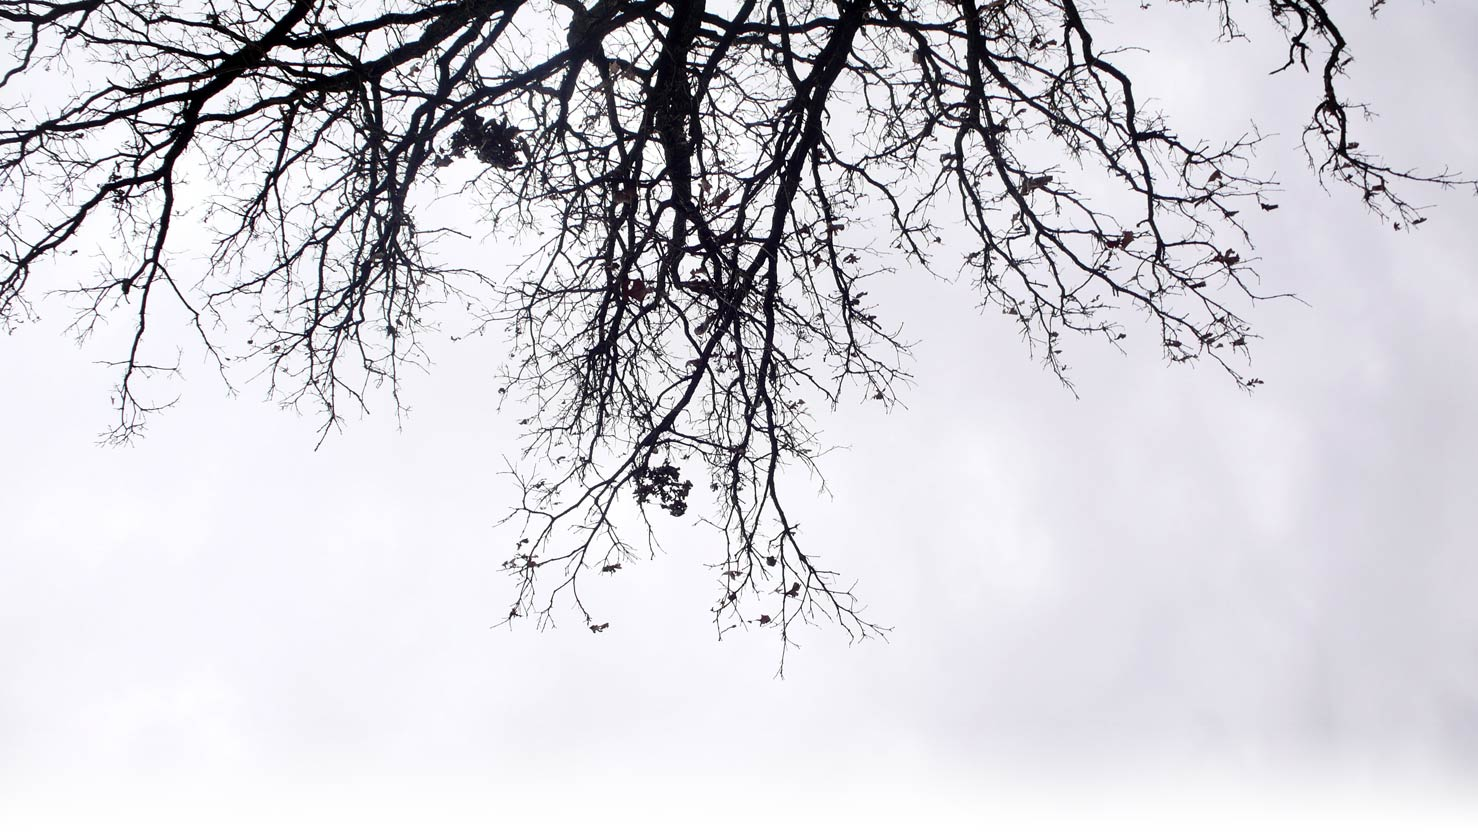
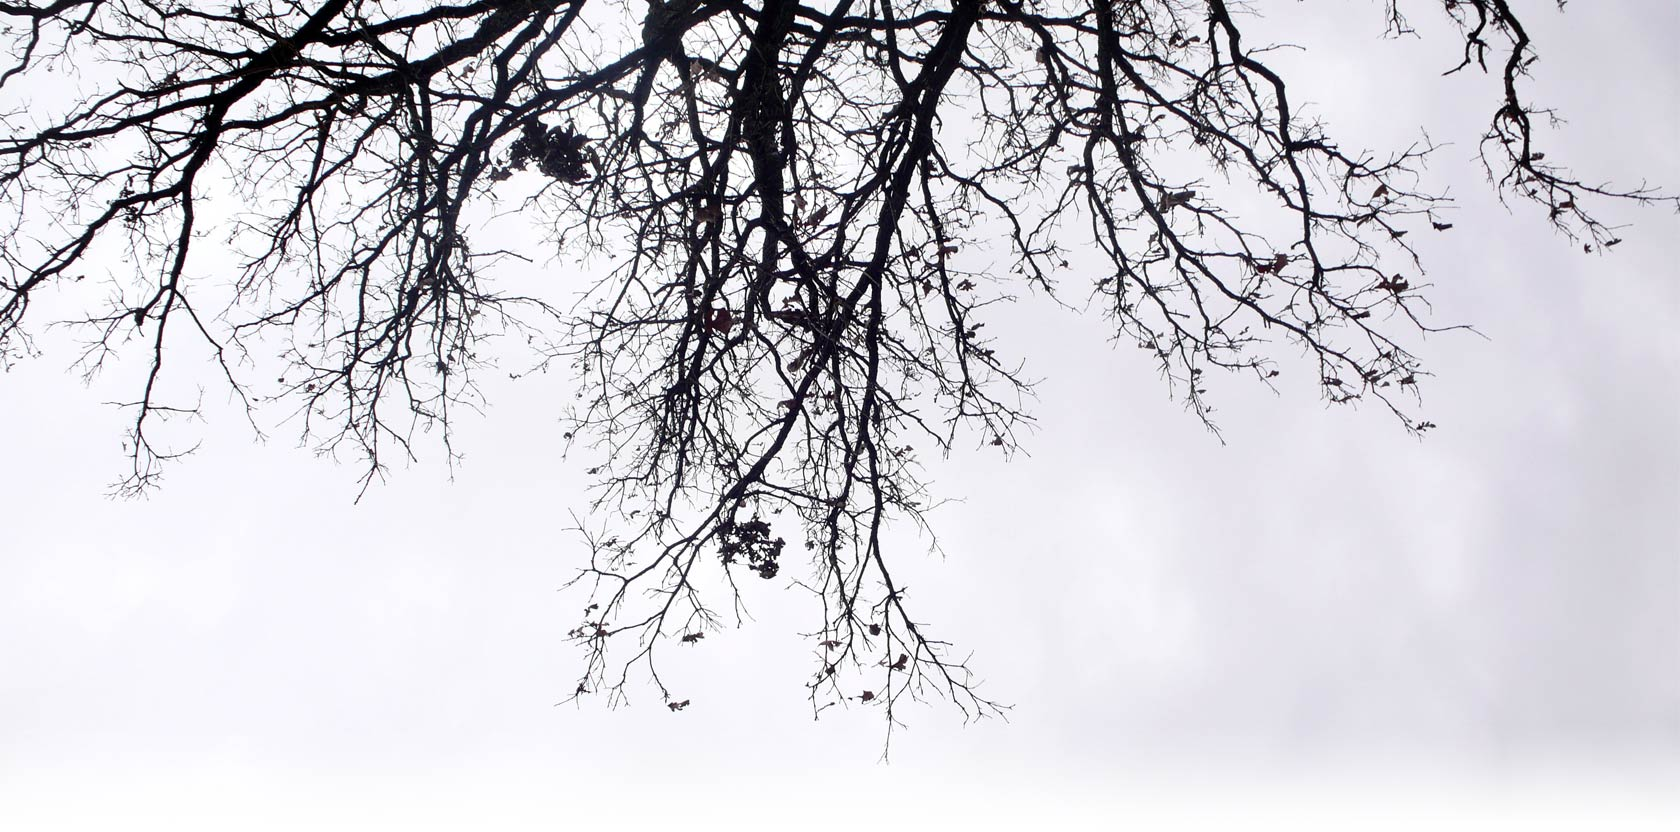
thanksgiving 3 new bg

Changed region(s): [[0.0, 0.0, 1.0, 0.875], [0.8403, 0.5, 0.8714, 0.5312]]

diff --git a/_site/index.html b/_site/index.html
@@ -14,6 +14,7 @@
     
     body {
       background: url(images/thankbg.jpg);;
+      background-repeat: no-repeat;
       
     }
 
@@ -31,7 +32,7 @@
       background: #000;
     }
     #toolbar .hidden_bar {
-      opacity: .6;
+      opacity: .8;
       background: #000;
       height: ;
     }

diff --git a/_layouts/default.html b/_layouts/default.html
@@ -16,6 +16,7 @@
     {% endif %}
     body {
       background: {{ page.background }};
+      background-repeat: no-repeat;
       {% if page.has_iframe %}
         overflow: hidden;
       {% endif %}

diff --git a/_site/style/style.css b/_site/style/style.css
@@ -1,4 +1,7 @@
-body { background: #fff }
+body {  background: #fff;
+        background-repeat: no-repeat;
+  }
+  
 #iphone { display:none; }
 
 #iframe_content { height: 100%; }

diff --git a/style/style.css b/style/style.css
@@ -1,4 +1,7 @@
-body { background: #fff }
+body {  background: #fff;
+        background-repeat: no-repeat;
+  }
+  
 #iphone { display:none; }
 
 #iframe_content { height: 100%; }

diff --git a/_site/where/coop.html b/_site/where/coop.html
@@ -16,6 +16,7 @@
     
     body {
       background: #e06060;
+      background-repeat: no-repeat;
       
         overflow: hidden;
       

diff --git a/_site/where/law.html b/_site/where/law.html
@@ -16,6 +16,7 @@
     
     body {
       background: #00415b;
+      background-repeat: no-repeat;
       
         overflow: hidden;
       

diff --git a/_site/where/onedesign.html b/_site/where/onedesign.html
@@ -16,6 +16,7 @@
     
     body {
       background: #5e8d2a;
+      background-repeat: no-repeat;
       
         overflow: hidden;
       

diff --git a/_site/where.html b/_site/where.html
@@ -16,6 +16,7 @@
     
     body {
       background: black;
+      background-repeat: no-repeat;
       
         overflow: hidden;
       

diff --git a/_site/where/post.html b/_site/where/post.html
@@ -16,6 +16,7 @@
     
     body {
       background: black;
+      background-repeat: no-repeat;
       
         overflow: hidden;
       

diff --git a/_site/where/shoots.html b/_site/where/shoots.html
@@ -16,6 +16,7 @@
     
     body {
       background: black;
+      background-repeat: no-repeat;
       
         overflow: hidden;
       

diff --git a/_site/with/twitter.html b/_site/with/twitter.html
@@ -16,6 +16,7 @@
     
     body {
       background: black;
+      background-repeat: no-repeat;
       
         overflow: hidden;
       

diff --git a/_site/with/facebook.html b/_site/with/facebook.html
@@ -16,6 +16,7 @@
     
     body {
       background: #FFF;
+      background-repeat: no-repeat;
       
         overflow: hidden;
       
